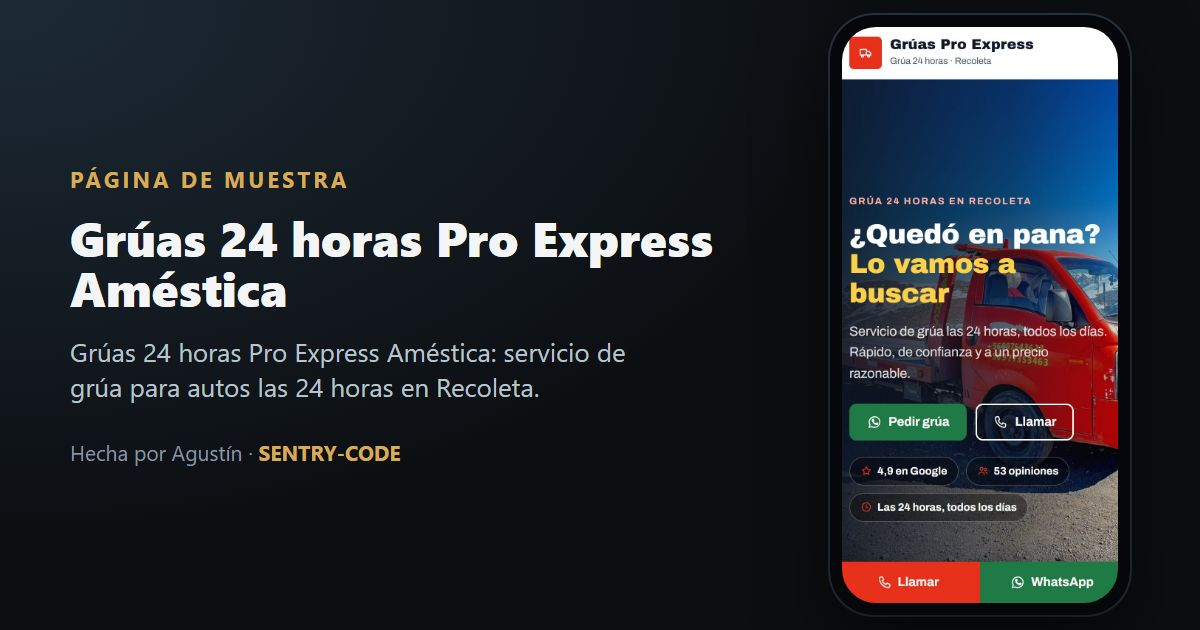
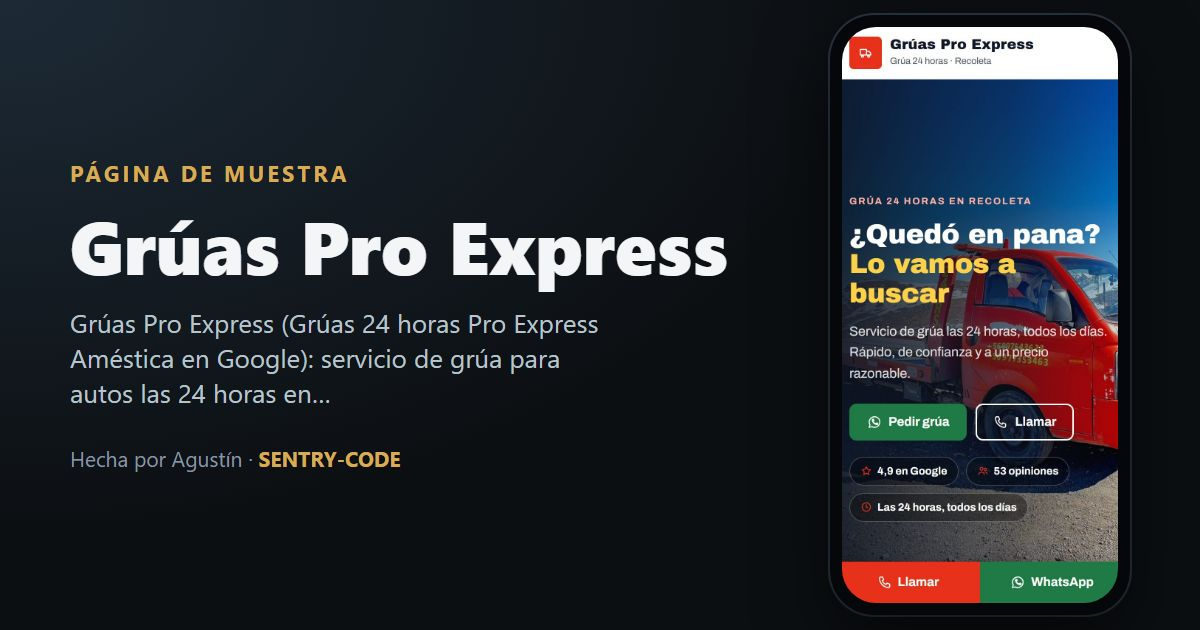
Nombre abreviado en la demo

Changed region(s): [[0.0617, 0.3317, 0.6167, 0.6635], [0.0617, 0.6937, 0.3392, 0.754], [0.0617, 0.2413, 0.3083, 0.3016]]

diff --git a/index.html b/index.html
@@ -3,11 +3,11 @@
 <head>
 <meta charset="utf-8">
 <meta name="viewport" content="width=device-width, initial-scale=1">
-<title>Grúas 24 horas Pro Express Améstica · Servicio de grúa 24 horas en Recoleta</title>
-<meta name="description" content="Grúas 24 horas Pro Express Améstica: servicio de grúa para autos las 24 horas en Recoleta. 4,9 en Google con 53 opiniones.">
+<title>Grúas Pro Express · Servicio de grúa 24 horas en Recoleta</title>
+<meta name="description" content="Grúas Pro Express (Grúas 24 horas Pro Express Améstica en Google): servicio de grúa para autos las 24 horas en Recoleta. 4,9 en Google con 53 opiniones.">
 <meta name="robots" content="noindex">
-<meta property="og:title" content="Grúas 24 horas Pro Express Améstica · Servicio de grúa 24 horas en Recoleta">
-<meta property="og:description" content="Grúas 24 horas Pro Express Améstica: servicio de grúa para autos las 24 horas en Recoleta. 4,9 en Google con 53 opiniones.">
+<meta property="og:title" content="Grúas Pro Express · Servicio de grúa 24 horas en Recoleta">
+<meta property="og:description" content="Grúas Pro Express (Grúas 24 horas Pro Express Améstica en Google): servicio de grúa para autos las 24 horas en Recoleta. 4,9 en Google con 53 opiniones.">
 <meta property="og:image" content="https://delaguardaagustin.github.io/gruas-pro-express-amestica/assets/vista.jpg"><meta property="og:image:width" content="1200"><meta property="og:image:height" content="630">
 <meta property="og:url" content="https://delaguardaagustin.github.io/gruas-pro-express-amestica/">
 <meta property="og:type" content="website">
@@ -121,7 +121,7 @@ h1,h2,h3{font-weight:400;letter-spacing:-.01em}h3{font-family:var(--fx);font-wei
 .muestra a{background:#d8ac54;color:#0c0f12;font-weight:700;text-decoration:none;border-radius:999px;padding:7px 15px;white-space:nowrap}
 .muestra a:hover{background:#e9c57a}
 </style>
-<div class="muestra"><div><span><b>Página de muestra hecha para Grúas 24 horas Pro Express Améstica por SENTRY-CODE.</b> Publicada con su dominio en 48 horas · $80.000 pago único con dominio incluido · mantención opcional de $15.000 al mes.</span><a href="https://wa.me/56974479565?text=Hola%20Agust%C3%ADn%2C%20vi%20la%20p%C3%A1gina%20de%20muestra%20de%20Gr%C3%BAas%2024%20horas%20Pro%20Express%20Am%C3%A9stica%20y%20quiero%20publicarla" target="_blank" rel="noopener">Quiero mi página</a></div></div>
+<div class="muestra"><div><span><b>Página de muestra hecha para Grúas Pro Express por SENTRY-CODE.</b> Publicada con su dominio en 48 horas · $80.000 pago único con dominio incluido · mantención opcional de $15.000 al mes.</span><a href="https://wa.me/56974479565?text=Hola%20Agust%C3%ADn%2C%20vi%20la%20p%C3%A1gina%20de%20muestra%20de%20Gr%C3%BAas%20Pro%20Express%20y%20quiero%20publicarla" target="_blank" rel="noopener">Quiero mi página</a></div></div>
 
 <header><div class="wrap nav">
   <a class="marca" href="#inicio"><span class="sello"><svg class="i" viewBox="0 0 24 24" aria-hidden="true"><path d="M3.5 6.5h10v9h-10zM13.5 9.5h4l3 3v3h-7"/><circle cx="7" cy="17.5" r="1.6"/><circle cx="17" cy="17.5" r="1.6"/></svg></span><span><b>Grúas Pro Express</b><small>Grúa 24 horas · Recoleta</small></span></a>
@@ -178,11 +178,11 @@ h1,h2,h3{font-weight:400;letter-spacing:-.01em}h3{font-family:var(--fx);font-wei
     <div class="dato reveal"><span class="eti">Dónde estamos</span><h2>Visítenos</h2>
       <p><svg class="i" viewBox="0 0 24 24" aria-hidden="true"><path d="M12 21s-7-6.2-7-11.4A7 7 0 0 1 19 9.6C19 14.8 12 21 12 21z"/><circle cx="12" cy="9.5" r="2.5"/></svg><span>Recoleta</span></p><ul class="hor"><li><span>Todos los días</span><b>Las 24 horas</b></li></ul>
       <div class="acciones"><a class="btn btn-wa" href="https://wa.me/56997543622?text=Hola%2C%20vi%20su%20p%C3%A1gina%20web%20y%20necesito%20una%20gr%C3%BAa" target="_blank" rel="noopener"><svg class="i" viewBox="0 0 24 24" aria-hidden="true"><path d="M3.5 20.5l1.3-4.2A8.6 8.6 0 1 1 8 19.4z"/><path d="M9 8.6c.2 2.9 2.6 5.4 5.6 5.8l1-1.1 1.9.8-.4 1.8c-4.6.4-8.8-3.6-8.5-8.3l1.8-.4.8 1.9z"/></svg>Escribir</a><a class="btn btn-o" href="tel:+56997543622"><svg class="i" viewBox="0 0 24 24" aria-hidden="true"><path d="M5 3.5h3.6l1.6 4.4-2.2 1.4a11 11 0 0 0 6.2 6.2l1.4-2.2 4.4 1.6V18.5A2 2 0 0 1 18 20.5 15.5 15.5 0 0 1 3.5 6 2 2 0 0 1 5 3.5z"/></svg>Llamar</a></div></div>
-    <iframe class="mapa" title="Mapa de Grúas 24 horas Pro Express Améstica" loading="lazy" src="https://www.google.com/maps?q=Recoleta%2C%20Santiago%2C%20Chile&z=15&output=embed"></iframe>
+    <iframe class="mapa" title="Mapa de Grúas Pro Express" loading="lazy" src="https://www.google.com/maps?q=Recoleta%2C%20Santiago%2C%20Chile&z=15&output=embed"></iframe>
   </div>
 </div></section>
 </main>
-<footer><div class="wrap"><span>Grúas 24 horas Pro Express Améstica · Servicio de grúa 24 horas · Recoleta</span><span><a href="tel:+56997543622">+56 9 9754 3622</a> · &copy; <span id="y"></span></span></div></footer>
+<footer><div class="wrap"><span>Grúas Pro Express · Servicio de grúa 24 horas · Recoleta</span><span><a href="tel:+56997543622">+56 9 9754 3622</a> · &copy; <span id="y"></span></span></div></footer>
 <script>
 document.querySelectorAll('form[data-cot]').forEach(function(f){f.addEventListener('submit',function(ev){ev.preventDefault();
   var m=f.getAttribute('data-msg'),av=f.querySelector('.aviso-f'),falta=null;
@@ -216,7 +216,7 @@ document.querySelectorAll('form[data-cot]').forEach(function(f){f.addEventListen
 })();
 </script>
 <link rel="stylesheet" href="asistente.css">
-<script>window.ASISTENTE = {"negocio": "Grúas 24 horas Pro Express Améstica", "persona": "Grúas 24 horas Pro Express Améstica", "wa": "56997543622", "confirma": "los traslados se coordinan", "boton": "Pedir grúa", "saludo": "Hola, soy el asistente de Grúas 24 horas Pro Express Améstica. ¿Qué necesita?", "cuando": [{"t": "Ahora", "m": "Necesito la grúa ahora."}, {"t": "Hoy, más tarde", "m": "La necesito hoy, más tarde."}, {"t": "Otro día", "m": "La necesito otro día."}, {"t": "Solo quiero cotizar", "m": "Por ahora solo quiero cotizar."}], "servicios": [{"n": "Traslado de autos en grúa", "info": "Llevamos su auto al taller, a su casa o donde lo necesite.", "opts": [], "kw": "trasl|llevar|grua|grúa|taller|auto"}, {"n": "Auxilio en pana", "info": "Si su auto quedó detenido, vamos a buscarlo.", "opts": [], "kw": "pana|detenid|no arranca|choque|accidente|auxilio"}, {"n": "Servicio 24 horas", "info": "Atendemos de día y de noche, todos los días.", "opts": [], "kw": "noche|24|madrugada|domingo|feriado"}, {"n": "Cotización por WhatsApp", "info": "Cuéntenos desde dónde y hacia dónde, y le damos el valor.", "opts": [], "kw": "precio|valor|cuanto|cuánto|cotiz"}], "faq": [{"pri": true, "kw": "precio|valor|cuanto|costo|cobra|sale|presupuesto|cotiz", "r": "El valor depende de la distancia. Cuénteme desde dónde y hacia dónde, y le dejo el mensaje listo."}, {"kw": "donde|direccion|ubicacion|comuna|zona|sector|llegan|van a|delivery|despacho", "r": "Estamos en Recoleta y vamos a buscar su auto."}, {"kw": "horario|hora|abren|atienden|sabado|domingo|noche|urgencia|emergencia|24", "r": "Las 24 horas, todos los días."}, {"kw": "pago|transferencia|efectivo|tarjeta|boleta|factura|convenio|isapre|fonasa", "r": "Las formas de pago se confirman al cotizar."}, {"kw": "garantia|seguro|confianza|quien|experiencia|opiniones|resenas", "r": "Grúas Pro Express tiene 4,9 en Google con 53 opiniones. Destacan la rapidez, la confianza y el precio razonable."}]};</script>
+<script>window.ASISTENTE = {"negocio": "Grúas Pro Express", "persona": "Grúas Pro Express", "wa": "56997543622", "confirma": "los traslados se coordinan", "boton": "Pedir grúa", "saludo": "Hola, soy el asistente de Grúas Pro Express. ¿Qué necesita?", "cuando": [{"t": "Ahora", "m": "Necesito la grúa ahora."}, {"t": "Hoy, más tarde", "m": "La necesito hoy, más tarde."}, {"t": "Otro día", "m": "La necesito otro día."}, {"t": "Solo quiero cotizar", "m": "Por ahora solo quiero cotizar."}], "servicios": [{"n": "Traslado de autos en grúa", "info": "Llevamos su auto al taller, a su casa o donde lo necesite.", "opts": [], "kw": "trasl|llevar|grua|grúa|taller|auto"}, {"n": "Auxilio en pana", "info": "Si su auto quedó detenido, vamos a buscarlo.", "opts": [], "kw": "pana|detenid|no arranca|choque|accidente|auxilio"}, {"n": "Servicio 24 horas", "info": "Atendemos de día y de noche, todos los días.", "opts": [], "kw": "noche|24|madrugada|domingo|feriado"}, {"n": "Cotización por WhatsApp", "info": "Cuéntenos desde dónde y hacia dónde, y le damos el valor.", "opts": [], "kw": "precio|valor|cuanto|cuánto|cotiz"}], "faq": [{"pri": true, "kw": "precio|valor|cuanto|costo|cobra|sale|presupuesto|cotiz", "r": "El valor depende de la distancia. Cuénteme desde dónde y hacia dónde, y le dejo el mensaje listo."}, {"kw": "donde|direccion|ubicacion|comuna|zona|sector|llegan|van a|delivery|despacho", "r": "Estamos en Recoleta y vamos a buscar su auto."}, {"kw": "horario|hora|abren|atienden|sabado|domingo|noche|urgencia|emergencia|24", "r": "Las 24 horas, todos los días."}, {"kw": "pago|transferencia|efectivo|tarjeta|boleta|factura|convenio|isapre|fonasa", "r": "Las formas de pago se confirman al cotizar."}, {"kw": "garantia|seguro|confianza|quien|experiencia|opiniones|resenas", "r": "Grúas Pro Express tiene 4,9 en Google con 53 opiniones. Destacan la rapidez, la confianza y el precio razonable."}]};</script>
 <script src="asistente.js" defer></script>
 <!-- contador de visitas -->
 <script>(function(){try{var L=localStorage,S=sessionStorage;if(location.search.indexOf('yo=1')>-1)L.setItem('soy-de-la-casa','1');

diff --git a/404.html b/404.html
@@ -1,7 +1,7 @@
 <!doctype html>
 <html lang="es-CL"><head><meta charset="utf-8"><meta name="viewport" content="width=device-width, initial-scale=1">
-<title>Página no encontrada · Grúas 24 horas Pro Express Améstica</title><meta name="robots" content="noindex"><link rel="icon" href="assets/icono.png">
+<title>Página no encontrada · Grúas Pro Express</title><meta name="robots" content="noindex"><link rel="icon" href="assets/icono.png">
 <style>body{margin:0;min-height:100vh;display:grid;place-items:center;font-family:system-ui,-apple-system,"Segoe UI",sans-serif;background:#f7f5f2;color:#1d1d1f;text-align:center;padding:24px}
 h1{font-size:clamp(1.6rem,6vw,2.4rem);margin:0 0 .4em}p{margin:0 0 1.6em;color:#555;max-width:34ch}
 a{display:inline-block;padding:14px 26px;border-radius:999px;background:#0f1724;color:#fff;text-decoration:none;font-weight:600}</style></head>
-<body><main><h1>Esta página no existe</h1><p>El enlace cambió o está mal escrito. Lo que busca de Grúas 24 horas Pro Express Améstica está en el inicio.</p><a href="./">Volver al inicio</a></main></body></html>
+<body><main><h1>Esta página no existe</h1><p>El enlace cambió o está mal escrito. Lo que busca de Grúas Pro Express está en el inicio.</p><a href="./">Volver al inicio</a></main></body></html>
